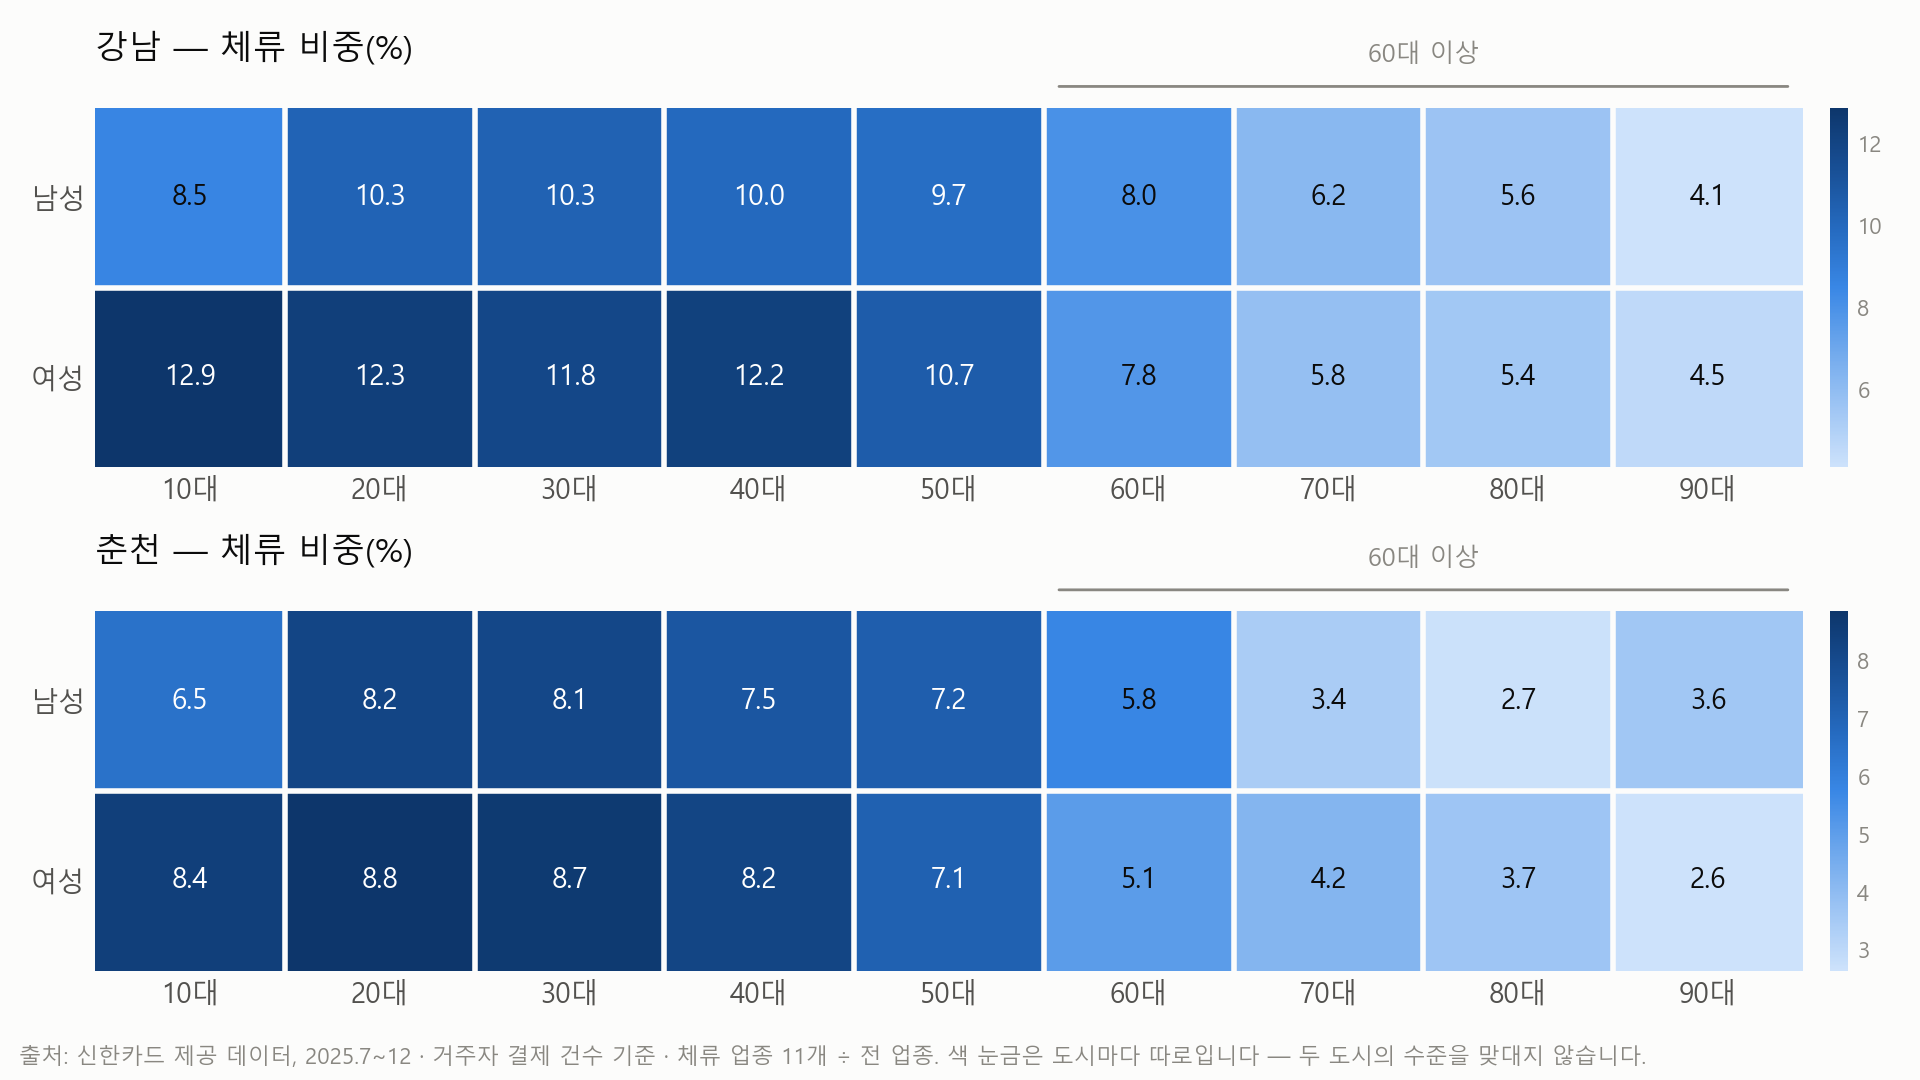
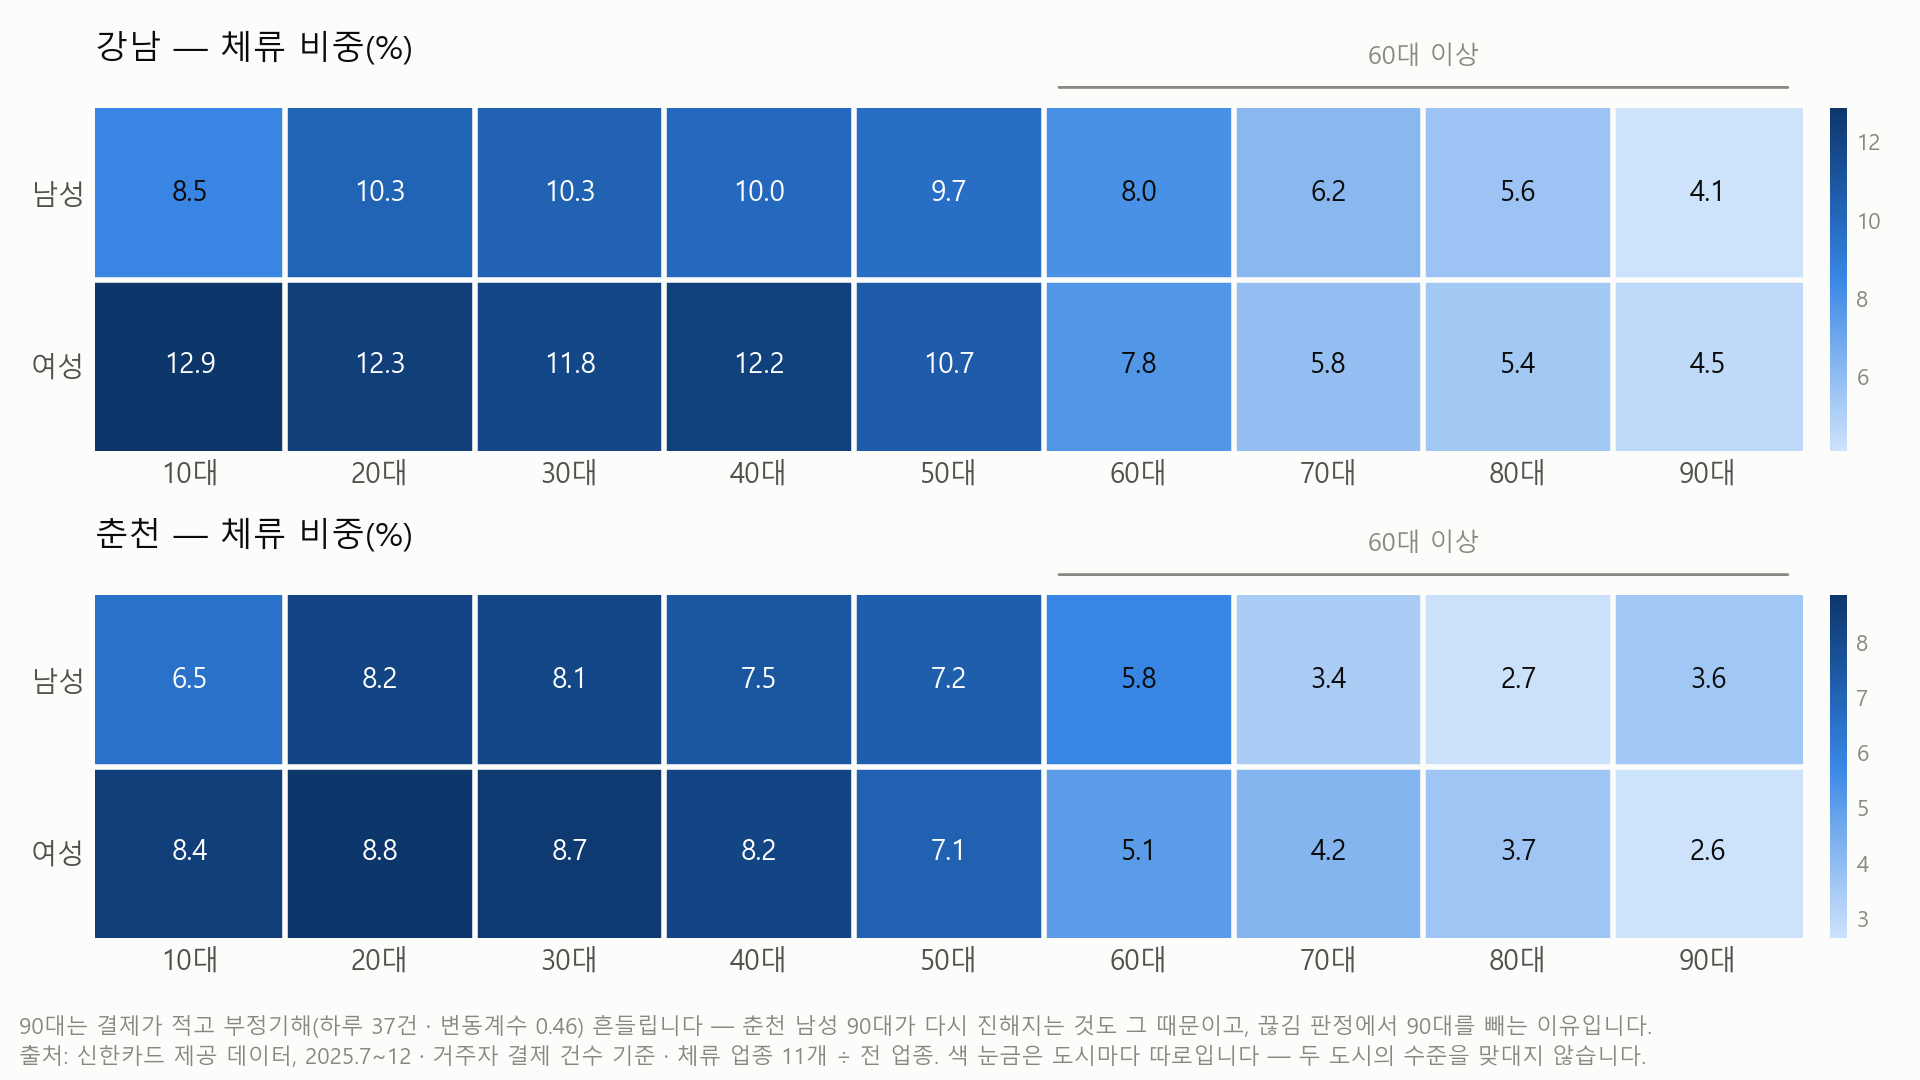
히트맵 아래 90대 한 줄(춘천 남 90대가 다시 진한 이유), PNG는 만든 사람만 커밋한다고 적기 (#62 윤지 리뷰)

diff --git a/scripts/fig_stay_heatmap.py b/scripts/fig_stay_heatmap.py
@@ -4,9 +4,17 @@
 춘천과 수준을 맞대지 않는다(실행계획 1-2절). 그래서 한 눈금에 두 도시를 올리지 않는다.
 색은 크기 하나만 나타내므로 한 색상(파랑)의 연한→진한 순차 눈금이다.
 
+90대 칸은 지표 패널(36칸)에 있어 그대로 그린다. 춘천 남성은 80대보다 90대가 다시 진해지는데, 90대는 결제가
+적고 부정기해(하루 37건 · 변동계수 0.46, 최종 수치표 1절) 흔들리는 칸이다 — 끊김 판정에서 90대를 빼는 이유라
+그림 아래에 같이 적는다(#62 윤지 리뷰).
+
 입력: reanalysis/reference/features_segment.csv (저장소에 있음 — 원본 없이 그려진다)
 출력: reports/figures/fig_stay_heatmap.png
 실행: python scripts/fig_stay_heatmap.py
+
+PNG는 바이트로는 재현되지 않는다. 그림과 값은 같지만 PC마다 글꼴 렌더링이 달라 픽셀 몇백 개가 다르다.
+그래서 reanalysis/reference/처럼 **한 사람이 만들어 커밋하고, 다른 PC에서는 다시 만들어 커밋하지 않는다.**
+값이 바뀌어 다시 그려야 할 때만 만든 사람이 새로 올린다.
 """
 from __future__ import annotations
 
@@ -73,10 +81,12 @@ def main() -> None:
         cb.ax.tick_params(labelsize=8, colors=MUTED, length=0)
         ax.set_facecolor(SURFACE)
 
+    fig.text(0.01, 0.043, "90대는 결제가 적고 부정기해(하루 37건 · 변동계수 0.46) 흔들립니다 — 춘천 남성 90대가 다시 진해지는 것도 그 때문이고, "
+             "끊김 판정에서 90대를 빼는 이유입니다.", fontsize=8, color=MUTED)
     fig.text(0.01, 0.015, "출처: 신한카드 제공 데이터, 2025.7~12 · 거주자 결제 건수 기준 · 체류 업종 11개 ÷ 전 업종. "
              "색 눈금은 도시마다 따로입니다 — 두 도시의 수준을 맞대지 않습니다.",
              fontsize=8, color=MUTED)
-    fig.tight_layout(rect=(0, 0.04, 1, 1))
+    fig.tight_layout(rect=(0, 0.07, 1, 1))
     OUT.parent.mkdir(parents=True, exist_ok=True)
     fig.savefig(OUT, dpi=200, facecolor=SURFACE)
     print(f"저장: {OUT.relative_to(ROOT)}")
